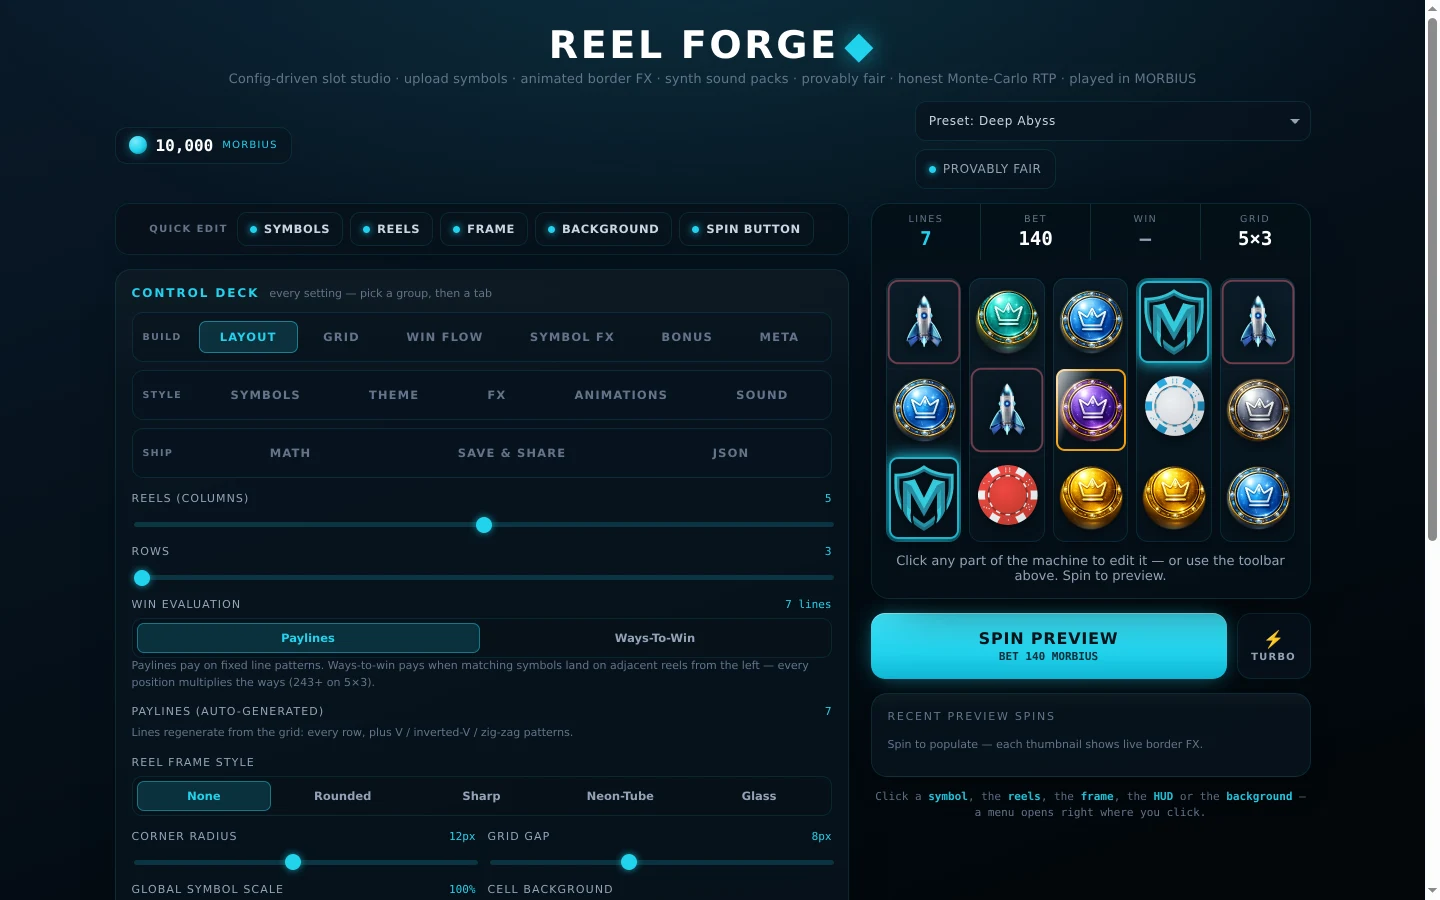
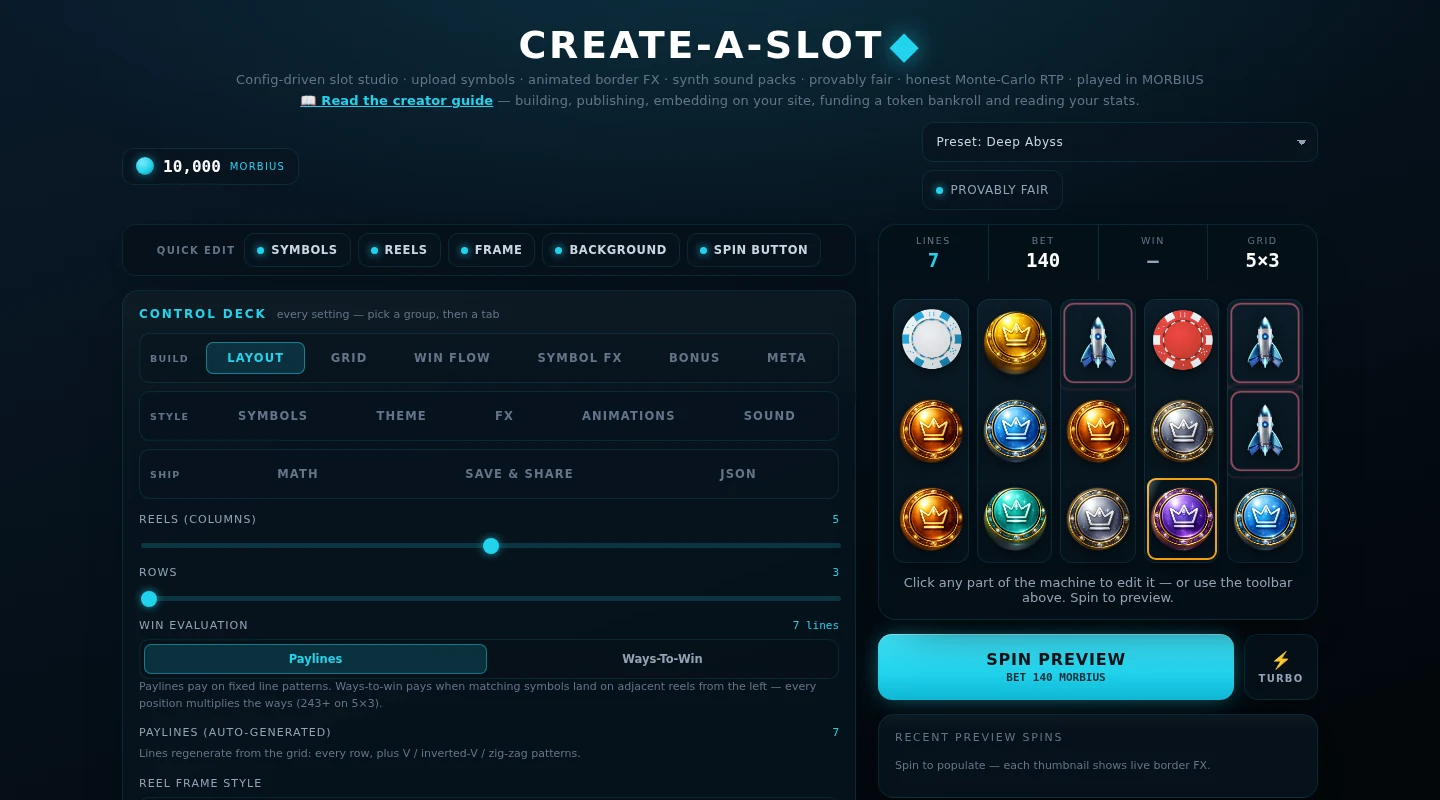
Home: drop the title sub-lines, retire "Forge", mark the two builders soon
Three changes to the homepage copy, per owner feedback.

Every zone heading loses its trailing sub-line — "the 10 newest tables on
the floor", "33 games, one chip", "rotates daily", "the community slot
studio" and the rest. The titles carry themselves.

"Forge" isn't a Morbius word, so the creator tools are now Create-A-Slot,
Create-A-Tournament and Create-A-Table. That includes the tools
themselves, not just the homepage: the slot studio, the blackjack table
designer, the creator guide, the labs hub and the admin links all carried
the old name, and it was visible inside the homepage screenshots. Those
two screenshots were re-captured from the renamed tools.

Create-A-Slot and Create-A-Table are marked COMING SOON — a pill beside
the title and in the panel kicker. Create-A-Tournament is live and keeps
its PRC-20 kicker.

Left alone deliberately: the internal `forge-*` CSS class names (not
user-visible, and renaming them is churn across three sections), and the
game sheet's "tap to play" hint, which is a functional line on a
different surface rather than a heading sub-line.

Claude-Session: https://claude.ai/code/session_019tR4kAYDro95opjqPf8bea

diff --git a/components/home2/sections.tsx b/components/home2/sections.tsx
@@ -497,7 +497,6 @@ export function TonightsTable({ cards }: { cards?: React.ReactNode }) {
         <h2>
           TONIGHT&apos;S <em>TABLE</em>
         </h2>
-        <span className="sub">rotates daily — same for everyone, always fresh</span>
       </div>
       <div className="spot-grid">
         {cards ?? (
@@ -631,7 +630,6 @@ export function TheFloor() {
         <h2>
           THE <em>FLOOR</em>
         </h2>
-        <span className="sub">{FLOOR_GAMES.length} games, one chip</span>
         <div className="pills">
           {FLOOR_FILTERS.map((p) => (
             <button
@@ -664,7 +662,7 @@ export function TheFloor() {
 }
 
 /* ────────────────────────────────────────────────────────────
-   6b. REEL FORGE — build-your-own slot machine promo
+   6b. CREATE-A-SLOT — build-your-own slot machine promo
    ──────────────────────────────────────────────────────────── */
 const FORGE_FEATS = [
   { ic: '🎨', t: 'Design every reel', d: 'symbols, colors, sounds & border FX' },
@@ -680,18 +678,18 @@ export function SlotForge() {
     <section className="zone forge-zone">
       <div className="zone-head">
         <h2>
-          REEL <em>FORGE</em>
+          CREATE-A-<em>SLOT</em>
         </h2>
-        <span className="sub">the community slot studio</span>
+        <span className="soon">COMING SOON</span>
       </div>
       <div className="forge-panel">
         <div className="forge-copy">
-          <div className="forge-kicker">NEW &middot; CREATOR TOOL</div>
+          <div className="forge-kicker">CREATOR TOOL &middot; COMING SOON</div>
           <h3>
             Create your own <em>Slot&nbsp;Machine!</em>
           </h3>
           <p>
-            Forge a machine from scratch — pick the grid, draw the paytable, wire up a bonus
+            Build a machine from scratch — pick the grid, draw the paytable, wire up a bonus
             round — then publish it and drop it on any website with one embed code. Fund it
             with your own token and the house edge is <b>yours</b>.
           </p>
@@ -718,7 +716,7 @@ export function SlotForge() {
         </div>
         <div className="forge-shots">
           <div className="fshot fshot-builder">
-            <img src="/home2/forge-builder.webp" alt="The Reel Forge slot builder studio" loading="lazy" />
+            <img src="/home2/forge-builder.webp" alt="The Create-A-Slot builder studio" loading="lazy" />
             <span className="fshot-tag">the studio</span>
           </div>
           <div className="fshot fshot-cab">
@@ -732,7 +730,7 @@ export function SlotForge() {
 }
 
 /* ────────────────────────────────────────────────────────────
-   6c. TOURNEY FORGE — custom PRC-20 buy-in poker tournaments
+   6c. CREATE-A-TOURNAMENT — custom PRC-20 buy-in poker tournaments
    ──────────────────────────────────────────────────────────── */
 const TOURNEY_FEATS = [
   { ic: '🪙', t: 'Buy-ins in your token', d: 'any PRC-20 — or MORBIUS' },
@@ -748,9 +746,8 @@ export function TourneyForge() {
     <section className="zone forge-zone tourney-zone">
       <div className="zone-head">
         <h2>
-          TOURNEY <em>FORGE</em>
+          CREATE-A-<em>TOURNAMENT</em>
         </h2>
-        <span className="sub">poker tournaments in your own token</span>
       </div>
       <div className="forge-panel">
         <div className="forge-copy">
@@ -801,7 +798,7 @@ export function TourneyForge() {
 }
 
 /* ────────────────────────────────────────────────────────────
-   6d. TABLE FORGE — custom blackjack tables
+   6d. CREATE-A-TABLE — custom blackjack tables
    ──────────────────────────────────────────────────────────── */
 const TABLE_FEATS = [
   { ic: '🖼', t: 'Your art on the felt', d: 'upload a board or start from a preset' },
@@ -817,13 +814,13 @@ export function TableForge() {
     <section className="zone forge-zone table-zone">
       <div className="zone-head">
         <h2>
-          TABLE <em>FORGE</em>
+          CREATE-A-<em>TABLE</em>
         </h2>
-        <span className="sub">custom blackjack tables</span>
+        <span className="soon">COMING SOON</span>
       </div>
       <div className="forge-panel">
         <div className="forge-copy">
-          <div className="forge-kicker">CREATOR TOOL &middot; BLACKJACK</div>
+          <div className="forge-kicker">BLACKJACK &middot; COMING SOON</div>
           <h3>
             Put your project on a <em>blackjack&nbsp;table</em>
           </h3>
@@ -846,7 +843,7 @@ export function TableForge() {
           </ul>
           <div className="forge-cta-row">
             <Link className="forge-cta" href="/blackjack-multi/design">
-              <span className="fc-ic">🎨</span> OPEN TABLE FORGE
+              <span className="fc-ic">🎨</span> OPEN THE TABLE BUILDER
             </Link>
             <Link className="forge-guide" href="/blackjack-multi">
               Play the live tables <span aria-hidden="true">→</span>
@@ -856,7 +853,7 @@ export function TableForge() {
         </div>
         <div className="forge-shots">
           <div className="fshot fshot-builder">
-            <img src="/home2/tableforge-studio.webp" alt="The Table Forge blackjack table studio" loading="lazy" />
+            <img src="/home2/tableforge-studio.webp" alt="The Create-A-Table builder studio" loading="lazy" />
             <span className="fshot-tag">the studio</span>
           </div>
           <div className="fshot fshot-cab">
@@ -1077,7 +1074,6 @@ export function VipLadder({ currentTier = 'SILVER' }: { currentTier?: string }) 
         <h2>
           THE <em>LADDER</em>
         </h2>
-        <span className="sub">rakeback on every losing bet — the house pays you back</span>
       </div>
       <div className="vip-strip">
         {VIP_TIERS.map((t) => (

diff --git a/public/slot-guide.html b/public/slot-guide.html
@@ -3,7 +3,7 @@
 <head>
 <meta charset="utf-8" />
 <meta name="viewport" content="width=device-width,initial-scale=1" />
-<title>Reel Forge — the complete creator guide</title>
+<title>Create-A-Slot — the complete creator guide</title>
 <meta name="description" content="Build a slot machine, publish it, embed it on your own site, fund it with any PRC-20 and watch the stats. The full walkthrough, with screenshots of every panel." />
 <link rel="preconnect" href="https://fonts.googleapis.com" />
 <link rel="preconnect" href="https://fonts.gstatic.com" crossorigin />
@@ -115,7 +115,7 @@ td code{white-space:nowrap}
 
 <div class="topbar">
   <span class="brand">MORBIUS<i>.IO</i></span>
-  <span style="color:var(--muted);font-size:12px">Reel Forge guide</span>
+  <span style="color:var(--muted);font-size:12px">Create-A-Slot guide</span>
   <span class="spacer"></span>
   <a class="cta" href="/slot-builder-lab.html">OPEN THE BUILDER</a>
 </div>
@@ -162,10 +162,10 @@ td code{white-space:nowrap}
 <!-- ══════════════════════════════════════════════════════ -->
 <section id="overview">
   <h2><span class="num">01</span>What you get</h2>
-  <p class="lede">Reel Forge is a slot studio in your browser. You design the machine; MORBIUS hosts it, runs the maths, and hands you an <code>&lt;iframe&gt;</code> to paste anywhere.</p>
+  <p class="lede">Create-A-Slot is a slot studio in your browser. You design the machine; MORBIUS hosts it, runs the maths, and hands you an <code>&lt;iframe&gt;</code> to paste anywhere.</p>
 
   <figure>
-    <img src="/guide/studio-full.webp" alt="The Reel Forge builder: control deck on the left, live machine preview on the right" loading="lazy" />
+    <img src="/guide/studio-full.webp" alt="The Create-A-Slot builder: control deck on the left, live machine preview on the right" loading="lazy" />
     <figcaption><b>The studio.</b> Controls on the left, a live machine on the right. Change anything and the preview updates immediately — no save/reload cycle.</figcaption>
   </figure>
 
@@ -184,7 +184,7 @@ td code{white-space:nowrap}
   <h2><span class="num">02</span>Quick start</h2>
   <p class="lede">The whole path, in the order you'll actually do it.</p>
   <ol class="steps">
-    <li><b>Open the builder</b> — <a href="/slot-builder-lab.html">Reel Forge</a>. Pick a preset from the top-right dropdown so you start from a working machine rather than a blank grid.</li>
+    <li><b>Open the builder</b> — <a href="/slot-builder-lab.html">Create-A-Slot</a>. Pick a preset from the top-right dropdown so you start from a working machine rather than a blank grid.</li>
     <li><b>Make it yours</b> — grid size, symbols, paytable, bonus round, colours and sound, all in the Control Deck.</li>
     <li><b>Spin it</b> — hit <em>Spin Preview</em> until it feels right, then check <em>Math</em> for the simulated RTP.</li>
     <li><b>Sign in</b> — one click with your wallet, on the <em>Save &amp; Share</em> tab.</li>
@@ -627,7 +627,7 @@ td code{white-space:nowrap}
 
 <div class="footer">
   <a href="/">MORBIUS.IO</a> ·
-  <a href="/slot-builder-lab.html">Reel Forge</a> ·
+  <a href="/slot-builder-lab.html">Create-A-Slot</a> ·
   <a href="#overview">Back to top</a>
   <div style="margin-top:8px">Play responsibly. Community machines are built by their creators, not by MORBIUS.</div>
 </div>

diff --git a/public/slot-builder-lab.html b/public/slot-builder-lab.html
@@ -3,12 +3,12 @@
 <head>
 <meta charset="utf-8" />
 <meta name="viewport" content="width=device-width, initial-scale=1, viewport-fit=cover" />
-<title>Reel Forge — Slot Studio lab</title>
+<title>Create-A-Slot — Slot Studio lab</title>
 <link rel="preconnect" href="https://fonts.googleapis.com" />
 <link rel="preconnect" href="https://fonts.gstatic.com" crossorigin />
 <link href="https://fonts.googleapis.com/css2?family=Audiowide&family=Bungee&family=Chakra+Petch:wght@500;600;700&family=JetBrains+Mono:wght@400;500;600;700&family=Michroma&family=Orbitron:wght@500;700;900&family=Rajdhani:wght@500;600;700&family=Space+Grotesk:wght@500;600;700&family=Space+Mono:wght@400;700&display=swap" rel="stylesheet" />
 <style>
-/* ── Reel Forge — Slot Studio (arcade2 Deep-Sea Neon) ──────────────────────
+/* ── Create-A-Slot — Slot Studio (arcade2 Deep-Sea Neon) ──────────────────────
    A config-driven slot BUILDER / creative studio. A single JSON slot
    definition (symbols, weights, pays, lines, theme, fx, anim) drives a live
    reel engine, a provably-fair spin, and an honest Monte-Carlo RTP simulator
@@ -674,7 +674,7 @@ input[type=color]{width:40px;height:34px;padding:2px;border:1px solid var(--cyan
 
 <div class="wrap">
   <header>
-    <h1 class="title">Reel Forge<span class="glyph">&#9670;</span></h1>
+    <h1 class="title">Create-A-Slot<span class="glyph">&#9670;</span></h1>
     <p class="tagline">Config-driven slot studio &middot; upload symbols &middot; animated border FX &middot; synth sound packs &middot; provably fair &middot; honest Monte-Carlo RTP &middot; played in MORBIUS</p>
     <p class="tagline" style="margin-top:6px"><a href="/slot-guide.html" style="color:var(--cyan);font-weight:700">📖 Read the creator guide</a> &mdash; building, publishing, embedding on your site, funding a token bankroll and reading your stats.</p>
   </header>
@@ -4002,7 +4002,7 @@ input[type=color]{width:40px;height:34px;padding:2px;border:1px solid var(--cyan
 
   /* ═══ SAVE & SHARE — a local "My Machines" library (localStorage) plus a
      Publish link that URL-encodes the whole slot definition so anyone who
-     opens it lands in Reel Forge with that exact machine. Self-contained. ═══ */
+     opens it lands in Create-A-Slot with that exact machine. Self-contained. ═══ */
   var MACH_KEY='reelforge_machines_v1';
   function machMsg(t,c){ var el=$('machMsg'); if(el){ el.textContent=t; el.className='json-msg '+(c||''); } }
   function machLoadAll(){ try{ return JSON.parse(localStorage.getItem(MACH_KEY)||'[]'); }catch(e){ return []; } }

diff --git a/components/admin/AdminBJMultiTab.tsx b/components/admin/AdminBJMultiTab.tsx
@@ -180,13 +180,13 @@ export default function AdminBJMultiTab() {
                     </TableCell>
                     <TableCell>
                       <div className="flex items-center gap-1">
-                        {/* Table Forge: the per-table theme designer (art, seats,
+                        {/* Create-A-Table: the per-table theme designer (art, seats,
                             card angle, sounds). Deep-links straight to this table. */}
                         <a
                           href={`/blackjack-multi/design?table=${encodeURIComponent(t.id)}`}
                           target="_blank"
                           rel="noreferrer"
-                          title="Open in Table Forge (theme designer)"
+                          title="Open in Create-A-Table (theme designer)"
                           className="inline-flex items-center justify-center h-6 w-6 rounded text-cyan-400 hover:text-cyan-300 hover:bg-cyan-900/20"
                         >
                           <Paintbrush className="w-3 h-3" />

diff --git a/components/BLACKJACK/design/TableDesigner.tsx b/components/BLACKJACK/design/TableDesigner.tsx
@@ -1,7 +1,7 @@
 'use client';
 
 /**
- * Table Forge — the blackjack table designer.
+ * Create-A-Table — the blackjack table designer.
  *
  * Structured to feel like the slot builder (public/slot-builder-lab.html):
  * a top-bar of whole-table presets, a quick-edit toolbar, a grouped control
@@ -792,7 +792,7 @@ export default function TableDesigner() {
       <div className="bjtd-wrap">
         <header className="bjtd-header">
           <h1 className="bjtd-title">
-            Table Forge<span className="bjtd-glyph">&#9670;</span>
+            Create-A-Table<span className="bjtd-glyph">&#9670;</span>
           </h1>
           <p className="bjtd-tagline">
             1 table art &middot; 2 cards &middot; 3 animations &middot; 4 sounds &middot; 5 fine-tune &middot; 6

diff --git a/app/home2.css b/app/home2.css
@@ -296,6 +296,9 @@
 .home2 .zone-head h2{font-family:var(--display); font-weight:400; font-size:clamp(18px,2.2vw,26px); letter-spacing:.03em}
 .home2 .zone-head h2 em{font-style:normal; color:var(--cyan)}
 .home2 .zone-head .sub{font-size:11px; color:var(--muted)}
+.home2 .zone-head .soon{font-size:9px; font-weight:800; letter-spacing:.16em; color:#fcd34d;
+  border:1px solid rgba(251,191,36,.45); background:rgba(251,191,36,.10);
+  border-radius:99px; padding:4px 10px; align-self:center}
 .home2 .zone-head .pills{margin-left:auto; display:flex; gap:6px; flex-wrap:wrap}
 .home2 .pill{font-size:10.5px; font-weight:600; padding:6px 14px; border-radius:99px; color:var(--text2); border:1px solid var(--line); transition:all .2s}
 .home2 .pill:hover{color:#fff}

diff --git a/public/labs-hub.html b/public/labs-hub.html
@@ -472,7 +472,7 @@ section.more{margin-top:44px}
   <h3>Tuning Tools</h3>
   <p>Not prototypes — rigs for dialling in something that already ships. Change what you hear or see here, then paste the result into the code it drives.</p>
   <div class="pills">
-    <a href="./slot-builder-lab.html">Reel Forge · slot studio</a>
+    <a href="./slot-builder-lab.html">Create-A-Slot · slot studio</a>
     <a href="./win-sound-lab.html">Win Sound · layer the sting</a>
     <a href="./win-text-lab.html">Win Text · pick the arrival</a>
     <a href="./sound-lab.html">Sound Lab · procedural packs</a>

diff --git a/components/DevLog/devlog-entries.tsx b/components/DevLog/devlog-entries.tsx
@@ -30,7 +30,7 @@
  *  01-multiplayer    /craps — the table, mid come-out roll
  *  02-new-games      / — the floor grid, scrolled to the NEW/MULTIPLAYER rows
  *  03-pulsechain     scan.morbius.io — the token dashboard
- *  04-slot-builder   /slot-builder-lab.html — Reel Forge, the slot studio
+ *  04-slot-builder   /slot-builder-lab.html — Create-A-Slot, the slot studio
  *  05-weekly-drop    / — the hero, with the live pot and countdown
  *  06-vip            /vip — the tier ladder
  *  07-provably-fair  /BLACKJACK/verify — the verifier

diff --git a/public/green-wick-slot-lab.html b/public/green-wick-slot-lab.html
@@ -15,7 +15,7 @@
    red warnings. The hero is the token's real avatar (DexScreener-listed logo,
    /slots/greenwick/wick-avatar.png). Machine: 7×7 cluster pays, cascades with
    a multiplier ladder, walking wild, free spins, marker collection. Maths from
-   /slots/greenwick.json — tuned in Reel Forge, played via cabinet-math.js. */
+   /slots/greenwick.json — tuned in Create-A-Slot, played via cabinet-math.js. */
 :root{
   --mx:#00ff41; --mx-dim:#0a8f2c; --red:#ff3333; --black:#020703;
 }

diff --git a/components/admin/AdminTablesTab.tsx b/components/admin/AdminTablesTab.tsx
@@ -216,7 +216,7 @@ function AngleStage({
 }
 
 /**
- * Card lean editor — the same presets Table Forge uses, plus fine-tune inputs
+ * Card lean editor — the same presets Create-A-Table uses, plus fine-tune inputs
  * and a live preview of both hands OVER the table's own art (the uploaded file
  * before save, the stored art when editing). Expands to near-fullscreen,
  * because a lean can only be judged against the drawn perspective and a

diff --git a/app/blackjack-multi/design/page.tsx b/app/blackjack-multi/design/page.tsx
@@ -2,7 +2,7 @@ import type { Metadata } from 'next';
 import TableDesigner from '@/components/BLACKJACK/design/TableDesigner';
 
 export const metadata: Metadata = {
-  title: 'Table Forge — blackjack table studio',
+  title: 'Create-A-Table — blackjack table studio',
   robots: { index: false, follow: false },
 };
 

diff --git a/components/home2/new-games.tsx b/components/home2/new-games.tsx
@@ -90,7 +90,6 @@ export function NewGames() {
         <h2>
           JUST <em>LANDED</em>
         </h2>
-        <span className="sub">the {games.length} newest tables on the floor</span>
       </div>
       <div
         className="ng-track"
